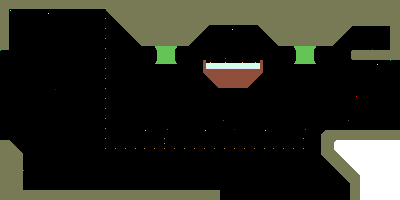
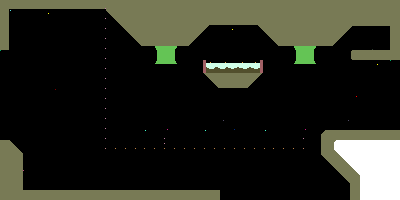
another attempt at vault h

Changed region(s): [[0.51, 0.3, 0.66, 0.45]]

diff --git a/notes.md b/notes.md
@@ -1,11 +1,15 @@
 - x cauldron fires
 - check for blank translation and sub english
+- vault h still busted - tanks to contain liquids?
 - detector on wizard ambrosia looks too high
+- detector disappears when deactivated??
 - check number of steps on hall of masters - 4 step
+  - better reward?
 - lower west desert missing frogs
-- draft detector on sand piles not clear
-- vault V - bottom with some breakable material
 - remote lab failure safety
+- check hall of masters chance override remote lab at max settings - or did they get made into field labs
+- default spawns: define init, append when biome has it???
+- Alias, large mod list: HoM large cauldron drains missing
 - x cauldron backgrounds
   - x sand pile
   - block eye position (ex ambrosia)
@@ -20,6 +24,8 @@
 - edges vs noedge?
 - ng+
 - nightmare
+- HoM understanding:
+  - Alias first visit: negative
 
 - translations - partly done
 - desert music backdown?
@@ -53,9 +59,11 @@
 - alternate biomes
 - noitavania
 - new biomes and secrets
+- more stuff
 
 ### Having Spawns in Default
 
+- default spawns: define init, append when biome has it???
 - spawn code collisions (vines, rubble, etc) -> use our own code
 
 #### Virtual Biomes in `biome_scripts`
